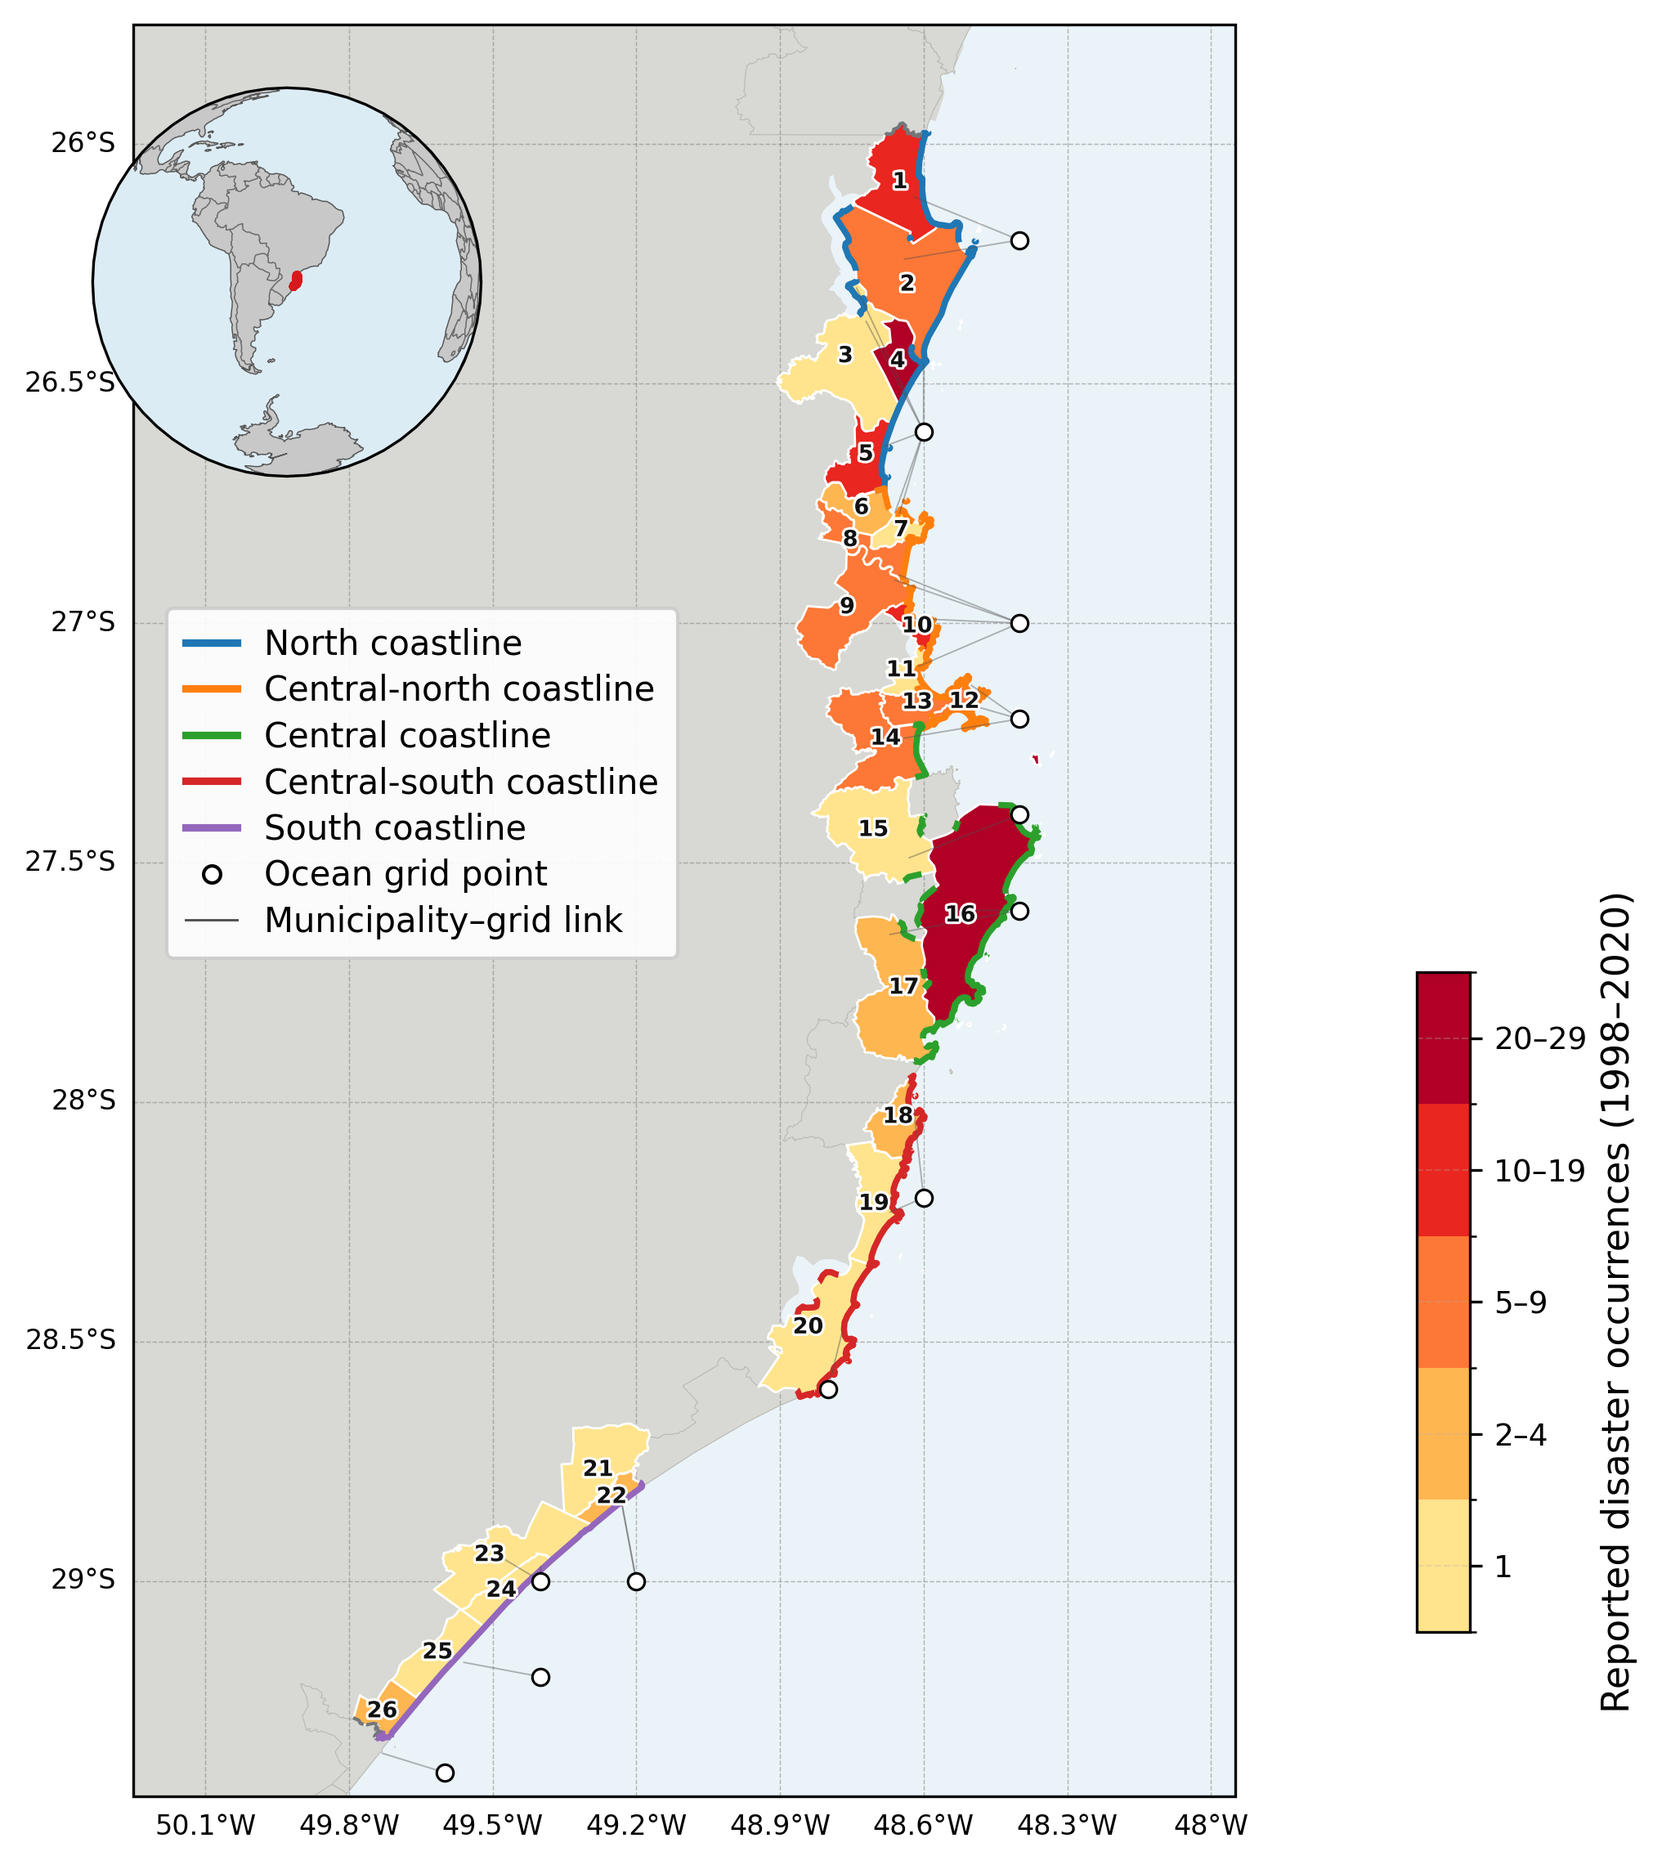
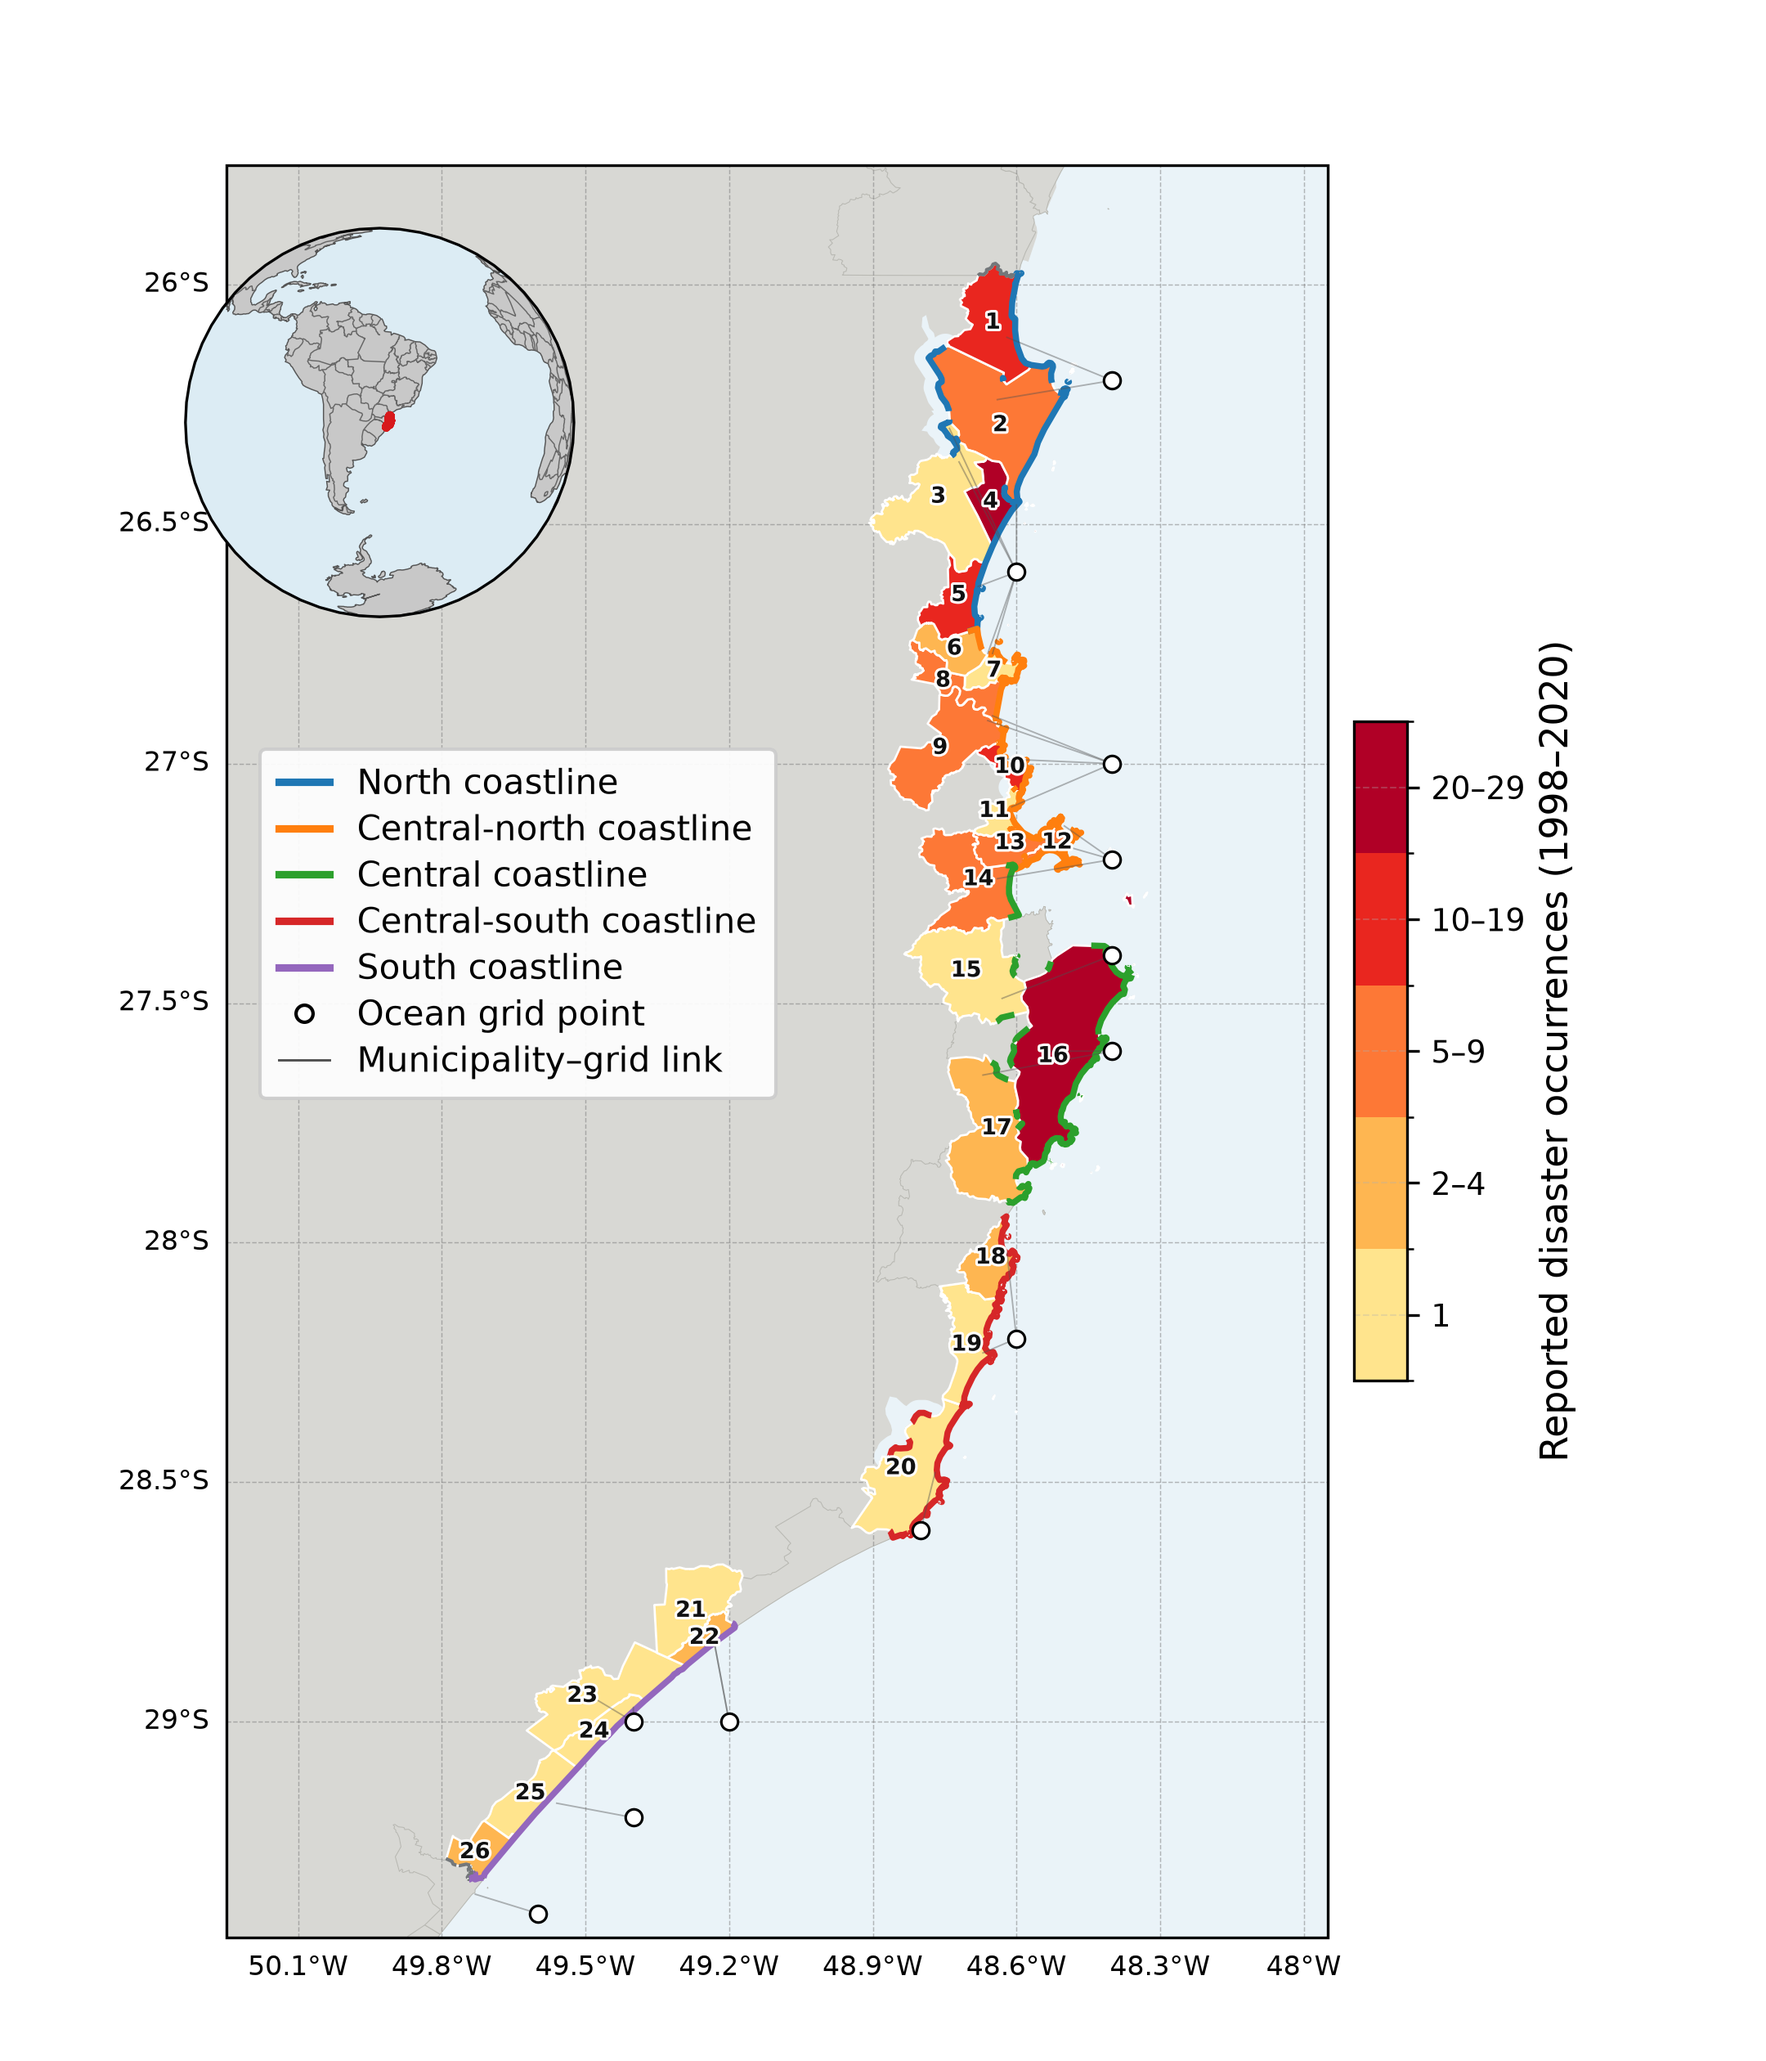
refactor(site): painel de detalhe passa a espelhar as camadas publicadas
Ao passar o mouse sobre um município, o painel listava dezenove linhas — entre
elas as quatro bandas de população, a população efetiva, três diagnósticos do
catálogo, e campos que já não são oferecidos como camada: Hazard_Index_raw,
Hazard_Index_mun, Risk_Hazard_raw e SVI_Coast_2022.

A lista era fixa no componente e por isso divergia das camadas a cada mudança do
exportador. Agora ela é derivada de available_layers, de modo que as duas não
possam mais separar-se: o painel mostra exatamente as oito quantidades que
entram no cálculo, com o rótulo curto e a unidade de cada uma, e destaca em
negrito a que está sendo exibida no mapa.

Os demais campos seguem nas propriedades do GeoJSON, para reprodutibilidade.

Verificado com tsc --noEmit e eslint, ambos sem apontamentos.

diff --git a/site/components/RiskIntegrationMap.tsx b/site/components/RiskIntegrationMap.tsx
@@ -103,27 +103,6 @@ const STAGE_BADGES: Record<RiskLayerMeta['stage'], { label: string; className: s
   input: { label: 'input layer', className: 'border-gray-200 bg-gray-50 text-gray-600' },
 };
 
-const DETAIL_FIELDS: { key: string; label: string; decimals: number }[] = [
-  { key: 'pop_1km', label: 'Population ≤1 km', decimals: 0 },
-  { key: 'pop_2km', label: 'Population ≤2 km', decimals: 0 },
-  { key: 'pop_5km', label: 'Population ≤5 km', decimals: 0 },
-  { key: 'pop_10km', label: 'Population ≤10 km', decimals: 0 },
-  { key: 'pop_eff', label: 'Effective population (weighted; not literal)', decimals: 1 },
-  { key: 'SVI_Coast_2022', label: 'SVI_Coast_2022 (0–100)', decimals: 1 },
-  { key: 'Hazard_Frequency', label: 'Hazard_Frequency (0–1)', decimals: 3 },
-  { key: 'Hazard_Severity', label: 'Hazard_Severity (0–1)', decimals: 3 },
-  { key: 'Hazard_Index_raw', label: 'Hazard_Index_raw (mean of the three)', decimals: 3 },
-  { key: 'Hazard_Index', label: 'Hazard_Index (0–1)', decimals: 3 },
-  { key: 'Hazard_Index_mun', label: 'Hazard_Index_mun (0–1)', decimals: 3 },
-  { key: 'Exposure_absolute', label: 'Exposure — absolute half', decimals: 3 },
-  { key: 'Exposure_relative', label: 'Exposure — municipal share', decimals: 3 },
-  { key: 'Exposure_Index', label: 'Exposure_Index (0–1)', decimals: 3 },
-  { key: 'Risk_Hazard_raw', label: 'Risk_Hazard_raw (geometric mean)', decimals: 3 },
-  { key: 'Risk_Hazard', label: 'Risk_Hazard (0–1)', decimals: 3 },
-  { key: 'compound_c', label: 'compound_c (events)', decimals: 0 },
-  { key: 'mean_overl', label: 'mean_overl (days)', decimals: 2 },
-  { key: 'mean_compo', label: 'mean_compo (dimensionless)', decimals: 3 },
-];
 
 const MAX_ZOOM = 14;
 
@@ -159,6 +138,20 @@ function numericValue(value: unknown): number | null {
 
 export default function RiskIntegrationMap({ data, metadata, basemap }: Props) {
   const layers = metadata.available_layers;
+  // The hover panel mirrors the published layers instead of carrying its own
+  // list. The two used to drift: it still offered Hazard_Index_raw,
+  // Hazard_Index_mun, Risk_Hazard_raw and SVI_Coast_2022 after those stopped
+  // being layers, and showed nineteen rows where the calculation has eight.
+  const detailFields = useMemo(
+    () =>
+      layers.map((entry) => ({
+        key: entry.key,
+        label: entry.short_label,
+        unit: entry.unit,
+        decimals: entry.decimals,
+      })),
+    [layers],
+  );
   const [selectedKey, setSelectedKey] = useState<string>(
     layers.find((layer) => layer.key === 'Risk_Hazard')?.key ?? layers[0]?.key ?? '',
   );
@@ -465,7 +458,7 @@ export default function RiskIntegrationMap({ data, metadata, basemap }: Props) {
                 {activeFeature.properties.state ? ` · ${activeFeature.properties.state}` : ''}
               </div>
               <div className="space-y-0.5 border-t border-gray-100 pt-1.5 text-xs text-gray-700">
-                {DETAIL_FIELDS.map((field) => {
+                {detailFields.map((field) => {
                   if (!(field.key in activeFeature.properties)) return null;
                   return (
                     <div
@@ -476,6 +469,7 @@ export default function RiskIntegrationMap({ data, metadata, basemap }: Props) {
                       <span className="font-mono">
                         {formatValue(numericValue(activeFeature.properties[field.key]), field.decimals)}
                       </span>
+                      {field.unit ? <span className="text-gray-400"> {field.unit}</span> : null}
                     </div>
                   );
                 })}

diff --git a/src/figures_article/make_article_supplementary_integrated_risk_zooms.py b/src/figures_article/make_article_supplementary_integrated_risk_zooms.py
@@ -94,7 +94,8 @@ NORTHEAST_EXTENT = (-42.5, -34.5, -7.5, -1.5)
 NORTH_EXTENT = (-52.8, -40.0, -4.3, 1.8)
 CONTEXT_EXTENT = (-56.0, -33.0, -35.5, 3.0)
 
-RISK_BOUNDARIES = np.array([0.0, 1e-6, 0.1, 0.2, 0.3, 0.4, 0.5, 0.6])
+RISK_CLASS_COUNT = 8
+ZERO_CLASS_EPSILON = 1e-6
 
 LAND_COLOR = "#ddddda"
 OCEAN_COLOR = "#e9f3f7"
@@ -130,6 +131,18 @@ def _relative(path: Path) -> str:
         return str(path.relative_to(ROOT))
     except ValueError:
         return str(path)
+
+
+def _integrated_risk_boundaries(values: pd.Series) -> np.ndarray:
+    """Match the data-scaled classes of the main integrated-risk panel."""
+    observed_maximum = float(values.max(skipna=True))
+    intervals = RISK_CLASS_COUNT - 1
+    step = np.floor(observed_maximum / intervals * 100.0) / 100.0
+    if not np.isfinite(step) or step <= 0:
+        raise ValueError("Integrated-risk values do not define positive classes")
+    return np.concatenate(
+        ([0.0, ZERO_CLASS_EPSILON], step * np.arange(1, intervals + 1))
+    )
 
 
 def _numeric_stats(series: pd.Series) -> dict[str, float | int | None]:
@@ -517,7 +530,10 @@ def _plot_region(
     }
 
 
-def _write_metadata(panels: list[dict[str, Any]]) -> None:
+def _write_metadata(
+    panels: list[dict[str, Any]],
+    risk_boundaries: np.ndarray,
+) -> None:
     source_metadata: dict[str, Any] = {}
     if RISK_METADATA_PATH.exists():
         source_metadata = json.loads(RISK_METADATA_PATH.read_text(encoding="utf-8"))
@@ -544,12 +560,12 @@ def _write_metadata(panels: list[dict[str, Any]]) -> None:
         },
         "colorbar": {
             "type": "discrete",
-            "boundaries": RISK_BOUNDARIES.tolist(),
-            "colors": list(RISK_COLORS[:7]),
+            "boundaries": risk_boundaries.tolist(),
+            "colors": list(RISK_COLORS[: len(risk_boundaries) - 1]),
             "label": "Integrated risk index (0-1)",
             "tick_labels": [
                 "0",
-                *[f"{value:g}" for value in RISK_BOUNDARIES[2:]],
+                *[f"{value:g}" for value in risk_boundaries[2:]],
             ],
             "zero_class": {
                 "interval": [0.0, 1e-6],
@@ -589,11 +605,12 @@ def _write_metadata(panels: list[dict[str, Any]]) -> None:
 
 def main() -> None:
     municipalities, coastline = _read_inputs()
+    risk_boundaries = _integrated_risk_boundaries(municipalities[RISK_KEY])
     cmap = ListedColormap(
-        list(RISK_COLORS[:7]),
+        list(RISK_COLORS[: len(risk_boundaries) - 1]),
         name="composite_score_inverted_green_to_red_integrated_risk",
     )
-    norm = BoundaryNorm(RISK_BOUNDARIES, cmap.N, clip=True)
+    norm = BoundaryNorm(risk_boundaries, cmap.N, clip=True)
 
     top_widths, top_aspect_sum = _row_layout(
         (SOUTH_SOUTHEAST_EXTENT, EAST_NORTHEAST_EXTENT)
@@ -687,27 +704,28 @@ def main() -> None:
         mappable,
         cax=colorbar_axis,
         orientation="horizontal",
-        boundaries=RISK_BOUNDARIES,
-        ticks=[RISK_BOUNDARIES[1] / 2, *RISK_BOUNDARIES[2:]],
+        boundaries=risk_boundaries,
+        ticks=[risk_boundaries[1] / 2, *risk_boundaries[2:]],
         spacing="uniform",
         drawedges=True,
     )
     colorbar.set_label("Integrated risk index (0–1)", fontsize=10)
     colorbar.ax.tick_params(labelsize=9, length=3)
     colorbar.ax.set_xticklabels(
-        ["0", *[f"{value:g}" for value in RISK_BOUNDARIES[2:]]]
+        ["0", *[f"{value:g}" for value in risk_boundaries[2:]]]
     )
     colorbar.outline.set_linewidth(0.75)
 
     OUT_DIR.mkdir(parents=True, exist_ok=True)
-    figure.savefig(
-        OUTPUT_PATH,
-        dpi=ARTICLE_DPI,
-        bbox_inches="tight",
-        facecolor="white",
-    )
+    with plt.rc_context({"savefig.bbox": None}):
+        figure.savefig(
+            OUTPUT_PATH,
+            dpi=ARTICLE_DPI,
+            bbox_inches=None,
+            facecolor="white",
+        )
     plt.close(figure)
-    _write_metadata(panels)
+    _write_metadata(panels, risk_boundaries)
     print(_relative(OUTPUT_PATH))
 
 

diff --git a/src/figures_article/make_article_calibration_map.py b/src/figures_article/make_article_calibration_map.py
@@ -35,6 +35,7 @@ if str(ROOT) not in sys.path:
 
 import cartopy.crs as ccrs
 import cartopy.feature as cfeature
+from cartopy.io import shapereader
 import geopandas as gpd
 import matplotlib.pyplot as plt
 import matplotlib.patheffects as path_effects
@@ -210,7 +211,14 @@ def generate_calibration_map() -> list[str]:
         ax.add_geometries(segment, crs=projection, facecolor="none",
                           edgecolor=SECTOR_COLORS[sector], linewidth=1.8, zorder=3.5)
 
-    colorbar_ax = fig.add_axes([0.855, 0.14, 0.03, 0.32])
+    map_position = ax.get_position()
+    colorbar_height = 0.32
+    colorbar_ax = fig.add_axes([
+        map_position.x1 + 0.015,
+        map_position.y0 + (map_position.height - colorbar_height) / 2,
+        0.03,
+        colorbar_height,
+    ])
     colorbar = fig.colorbar(
         ScalarMappable(norm=count_norm, cmap=count_cmap),
         cax=colorbar_ax,
@@ -257,6 +265,24 @@ def generate_calibration_map() -> list[str]:
     inset.add_feature(cfeature.LAND.with_scale("110m"), facecolor="#C8C8C8",
                       edgecolor="#555555", linewidth=0.35, zorder=1)
     inset.add_feature(cfeature.BORDERS.with_scale("110m"), edgecolor="#666666", linewidth=0.35, zorder=2)
+    state_boundaries_path = shapereader.natural_earth(
+        resolution="10m",
+        category="cultural",
+        name="admin_1_states_provinces_lines",
+    )
+    brazilian_state_boundaries = [
+        record.geometry
+        for record in shapereader.Reader(state_boundaries_path).records()
+        if record.attributes.get("ADM0_NAME") == "Brazil"
+    ]
+    inset.add_geometries(
+        brazilian_state_boundaries,
+        crs=projection,
+        facecolor="none",
+        edgecolor="#666666",
+        linewidth=0.35,
+        zorder=2,
+    )
     sc_boundary = brazil_municipalities[brazil_municipalities["state"] == "SC"].dissolve()
     inset.add_geometries(sc_boundary.geometry, crs=projection, facecolor="none",
                          edgecolor="#D7191C", linewidth=2.6, zorder=4)
@@ -274,7 +300,13 @@ def generate_calibration_map() -> list[str]:
               bbox_to_anchor=(0.015, 0.68), ncol=1, fontsize=10.0,
               frameon=True, framealpha=0.92, borderpad=0.55,
               labelspacing=0.35, handlelength=1.5)
-    return _save_figure(fig, "santa_catarina_study_area_and_grid_points")
+    # The projected map fills the intended canvas vertically. Disabling the
+    # global tight crop preserves every grid label and the full southern edge.
+    return _save_figure(
+        fig,
+        "santa_catarina_study_area_and_grid_points",
+        bbox_inches=None,
+    )
 
 
 def main() -> None:

diff --git a/src/figures_article/figure_io.py b/src/figures_article/figure_io.py
@@ -44,13 +44,24 @@ def _relative(path: Path) -> str:
         return str(path)
 
 
-def _save_figure(fig: plt.Figure, stem: str) -> list[str]:
+def _save_figure(
+    fig: plt.Figure,
+    stem: str,
+    *,
+    bbox_inches: str | None = "tight",
+) -> list[str]:
     """Save one article figure using the repository-wide PNG-only policy."""
     OUT_DIR.mkdir(parents=True, exist_ok=True)
     if ORDINAL_FILENAME_PATTERN.match(stem):
         raise ValueError(f"Article figure stem must be semantic, not ordinal: {stem!r}")
     path = OUT_DIR / f"{stem}.{ARTICLE_FIGURE_FORMAT}"
-    fig.savefig(path, dpi=ARTICLE_FIGURE_DPI, bbox_inches="tight", facecolor="white")
+    with plt.rc_context({"savefig.bbox": bbox_inches}):
+        fig.savefig(
+            path,
+            dpi=ARTICLE_FIGURE_DPI,
+            bbox_inches=bbox_inches,
+            facecolor="white",
+        )
     plt.close(fig)
     return [_relative(path)]
 
